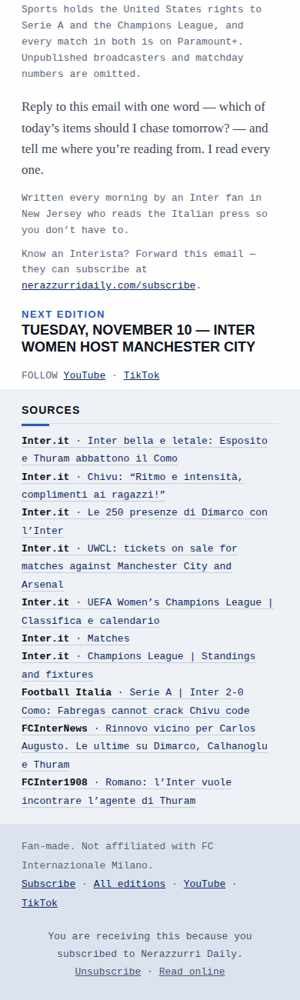
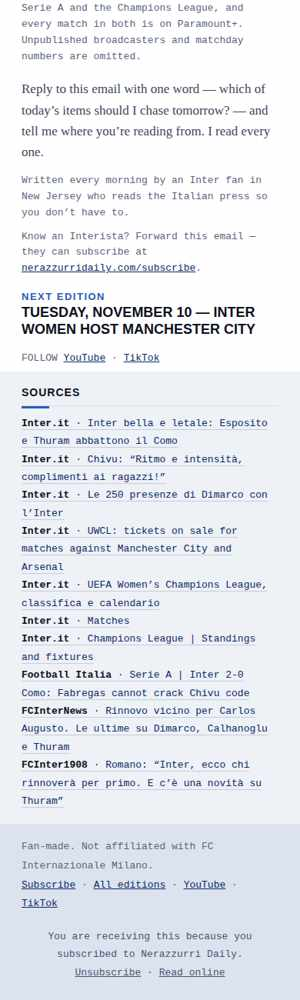
Edition No. 69 — Esposito and Thuram sink Como 2–0 at San Siro
Built by the edition workflow, run 42605828699.

diff --git a/review/edition-69/email-69.html b/review/edition-69/email-69.html
@@ -10,12 +10,12 @@
 <a href="https://www.inter.it/it/notizie/chivu-intervista-post-inter-como-serie-a-2026-27" style="color:#0A2A66;text-decoration:none;border-bottom:1px solid #C4CDDE;"><b style="color:#0B1020;">Inter.it</b> · Chivu: “Ritmo e intensità, complimenti ai ragazzi!”</a><br>
 <a href="https://www.inter.it/it/notizie/dimarco-250-presenze-inter-como-2026-27" style="color:#0A2A66;text-decoration:none;border-bottom:1px solid #C4CDDE;"><b style="color:#0B1020;">Inter.it</b> · Le 250 presenze di Dimarco con l’Inter</a><br>
 <a href="https://www.inter.it/en/news/womens-champions-league-tickets-inter-arsenal-manchester-city" style="color:#0A2A66;text-decoration:none;border-bottom:1px solid #C4CDDE;"><b style="color:#0B1020;">Inter.it</b> · UWCL: tickets on sale for matches against Manchester City and Arsenal</a><br>
-<a href="https://www.inter.it/it/notizie/uefa-womens-champions-league-classifica-e-calendario" style="color:#0A2A66;text-decoration:none;border-bottom:1px solid #C4CDDE;"><b style="color:#0B1020;">Inter.it</b> · UEFA Women’s Champions League | Classifica e calendario</a><br>
+<a href="https://www.inter.it/it/notizie/uefa-womens-champions-league-classifica-e-calendario" style="color:#0A2A66;text-decoration:none;border-bottom:1px solid #C4CDDE;"><b style="color:#0B1020;">Inter.it</b> · UEFA Women’s Champions League, classifica e calendario</a><br>
 <a href="https://www.inter.it/en/matches" style="color:#0A2A66;text-decoration:none;border-bottom:1px solid #C4CDDE;"><b style="color:#0B1020;">Inter.it</b> · Matches</a><br>
 <a href="https://www.inter.it/en/news/standings-league-phase-inter-fixtures-champions-league-26-27" style="color:#0A2A66;text-decoration:none;border-bottom:1px solid #C4CDDE;"><b style="color:#0B1020;">Inter.it</b> · Champions League | Standings and fixtures</a><br>
 <a href="https://football-italia.net/serie-a-inter-2-0-como-fabregas-crack-chivu/" style="color:#0A2A66;text-decoration:none;border-bottom:1px solid #C4CDDE;"><b style="color:#0B1020;">Football Italia</b> · Serie A | Inter 2-0 Como: Fabregas cannot crack Chivu code</a><br>
 <a href="https://www.fcinternews.it/in-primo-piano/rinnovo-carlos-augusto-ultime-dimarco-calhanoglu-thuram-1022764" style="color:#0A2A66;text-decoration:none;border-bottom:1px solid #C4CDDE;"><b style="color:#0B1020;">FCInterNews</b> · Rinnovo vicino per Carlos Augusto. Le ultime su Dimarco, Calhanoglu e Thuram</a><br>
-<a href="https://www.fcinter1908.it/calciomercato/mercato-inter/romano-inter-thuram-incontro/" style="color:#0A2A66;text-decoration:none;border-bottom:1px solid #C4CDDE;"><b style="color:#0B1020;">FCInter1908</b> · Romano: l’Inter vuole incontrare l’agente di Thuram</a></p></td></tr><tr><td style="background:#DCE3EF;padding:18px 28px;"><div style="font-family:'Courier New',Courier,monospace;font-size:13px;color:#5A647E;line-height:1.9;">Fan-made. Not affiliated with FC Internazionale Milano.<br><a href="https://www.nerazzurridaily.com/go/email/?ed=69&to=/subscribe/" style="color:#0A2A66;">Subscribe</a> &middot; <a href="https://www.nerazzurridaily.com/go/email/?ed=69" style="color:#0A2A66;">All editions</a> &middot; <a href="https://www.youtube.com/@nerazzurridaily" style="color:#0A2A66;">YouTube</a> &middot; <a href="https://www.tiktok.com/@nerazzurridaily" style="color:#0A2A66;">TikTok</a></div></td></tr><tr><td style="background:#DCE3EF;padding:0 28px 24px;"><div style="font-family:'Courier New',Courier,monospace;font-size:13px;color:#4A5470;line-height:1.8;text-align:center;">You are receiving this because you subscribed to Nerazzurri Daily.<br><a href="{{ unsubscribe }}" style="color:#4A5470;text-decoration:underline;">Unsubscribe</a> &middot; <a href="https://www.nerazzurridaily.com/p/edition-69/" style="color:#4A5470;text-decoration:underline;">Read online</a></div></td></tr>
+<a href="https://www.fcinter1908.it/calciomercato/mercato-inter/romano-inter-thuram-incontro/" style="color:#0A2A66;text-decoration:none;border-bottom:1px solid #C4CDDE;"><b style="color:#0B1020;">FCInter1908</b> · Romano: “Inter, ecco chi rinnoverà per primo. E c’è una novità su Thuram”</a></p></td></tr><tr><td style="background:#DCE3EF;padding:18px 28px;"><div style="font-family:'Courier New',Courier,monospace;font-size:13px;color:#5A647E;line-height:1.9;">Fan-made. Not affiliated with FC Internazionale Milano.<br><a href="https://www.nerazzurridaily.com/go/email/?ed=69&to=/subscribe/" style="color:#0A2A66;">Subscribe</a> &middot; <a href="https://www.nerazzurridaily.com/go/email/?ed=69" style="color:#0A2A66;">All editions</a> &middot; <a href="https://www.youtube.com/@nerazzurridaily" style="color:#0A2A66;">YouTube</a> &middot; <a href="https://www.tiktok.com/@nerazzurridaily" style="color:#0A2A66;">TikTok</a></div></td></tr><tr><td style="background:#DCE3EF;padding:0 28px 24px;"><div style="font-family:'Courier New',Courier,monospace;font-size:13px;color:#4A5470;line-height:1.8;text-align:center;">You are receiving this because you subscribed to Nerazzurri Daily.<br><a href="{{ unsubscribe }}" style="color:#4A5470;text-decoration:underline;">Unsubscribe</a> &middot; <a href="https://www.nerazzurridaily.com/p/edition-69/" style="color:#4A5470;text-decoration:underline;">Read online</a></div></td></tr>
 </table>
 </td></tr></table>
 </body></html>

diff --git a/p/edition-69/index.html b/p/edition-69/index.html
@@ -147,12 +147,12 @@ a{color:#0A2A66}
 <a href="https://www.inter.it/it/notizie/chivu-intervista-post-inter-como-serie-a-2026-27" rel="noopener"><b>Inter.it</b> · Chivu: “Ritmo e intensità, complimenti ai ragazzi!”</a><br>
 <a href="https://www.inter.it/it/notizie/dimarco-250-presenze-inter-como-2026-27" rel="noopener"><b>Inter.it</b> · Le 250 presenze di Dimarco con l’Inter</a><br>
 <a href="https://www.inter.it/en/news/womens-champions-league-tickets-inter-arsenal-manchester-city" rel="noopener"><b>Inter.it</b> · UWCL: tickets on sale for matches against Manchester City and Arsenal</a><br>
-<a href="https://www.inter.it/it/notizie/uefa-womens-champions-league-classifica-e-calendario" rel="noopener"><b>Inter.it</b> · UEFA Women’s Champions League | Classifica e calendario</a><br>
+<a href="https://www.inter.it/it/notizie/uefa-womens-champions-league-classifica-e-calendario" rel="noopener"><b>Inter.it</b> · UEFA Women’s Champions League, classifica e calendario</a><br>
 <a href="https://www.inter.it/en/matches" rel="noopener"><b>Inter.it</b> · Matches</a><br>
 <a href="https://www.inter.it/en/news/standings-league-phase-inter-fixtures-champions-league-26-27" rel="noopener"><b>Inter.it</b> · Champions League | Standings and fixtures</a><br>
 <a href="https://football-italia.net/serie-a-inter-2-0-como-fabregas-crack-chivu/" rel="noopener"><b>Football Italia</b> · Serie A | Inter 2-0 Como: Fabregas cannot crack Chivu code</a><br>
 <a href="https://www.fcinternews.it/in-primo-piano/rinnovo-carlos-augusto-ultime-dimarco-calhanoglu-thuram-1022764" rel="noopener"><b>FCInterNews</b> · Rinnovo vicino per Carlos Augusto. Le ultime su Dimarco, Calhanoglu e Thuram</a><br>
-<a href="https://www.fcinter1908.it/calciomercato/mercato-inter/romano-inter-thuram-incontro/" rel="noopener"><b>FCInter1908</b> · Romano: l’Inter vuole incontrare l’agente di Thuram</a></p></div><div class="foot">Fan-made. Not affiliated with FC Internazionale Milano.<br>
+<a href="https://www.fcinter1908.it/calciomercato/mercato-inter/romano-inter-thuram-incontro/" rel="noopener"><b>FCInter1908</b> · Romano: “Inter, ecco chi rinnoverà per primo. E c’è una novità su Thuram”</a></p></div><div class="foot">Fan-made. Not affiliated with FC Internazionale Milano.<br>
 <a href="#subscribe">Subscribe</a> &middot; <a href="/">All editions</a> &middot; <a href="/fixtures/">Fixtures</a> &middot; <a href="https://www.youtube.com/@nerazzurridaily" rel="noopener">YouTube</a> &middot; <a href="https://www.tiktok.com/@nerazzurridaily" rel="noopener">TikTok</a></div>
 </div>
 <div class="stick" id="stick" hidden><span>Inter, every morning, 6 AM ET</span><a href="#subscribe">Get it free</a><button type="button" id="stick-x" aria-label="Dismiss">×</button></div>
